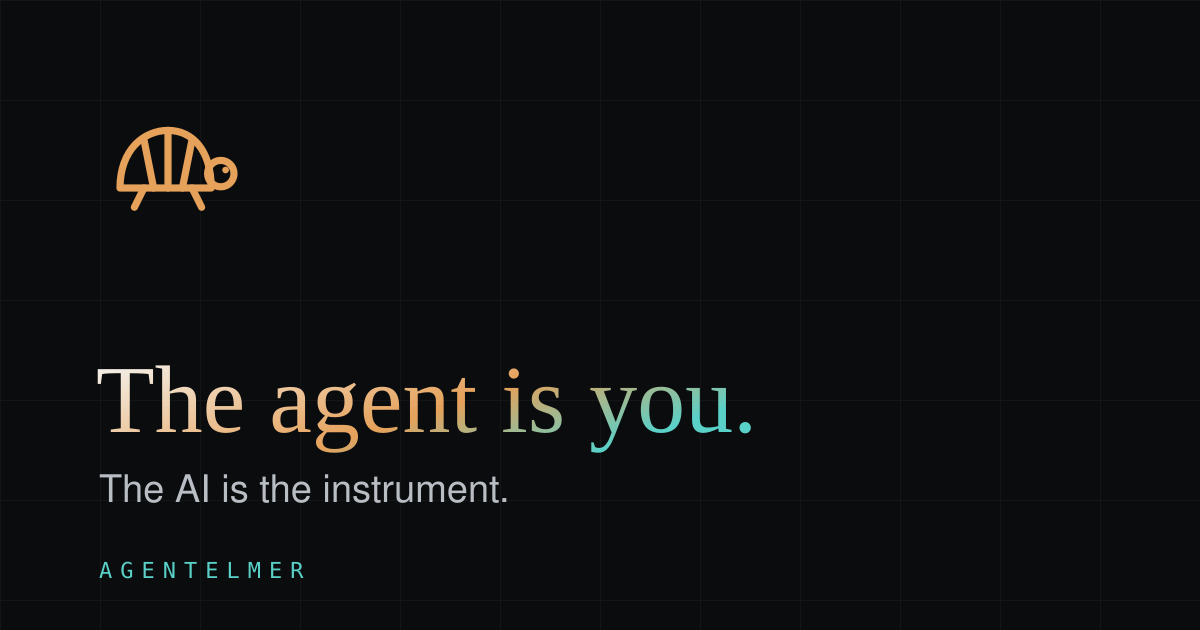
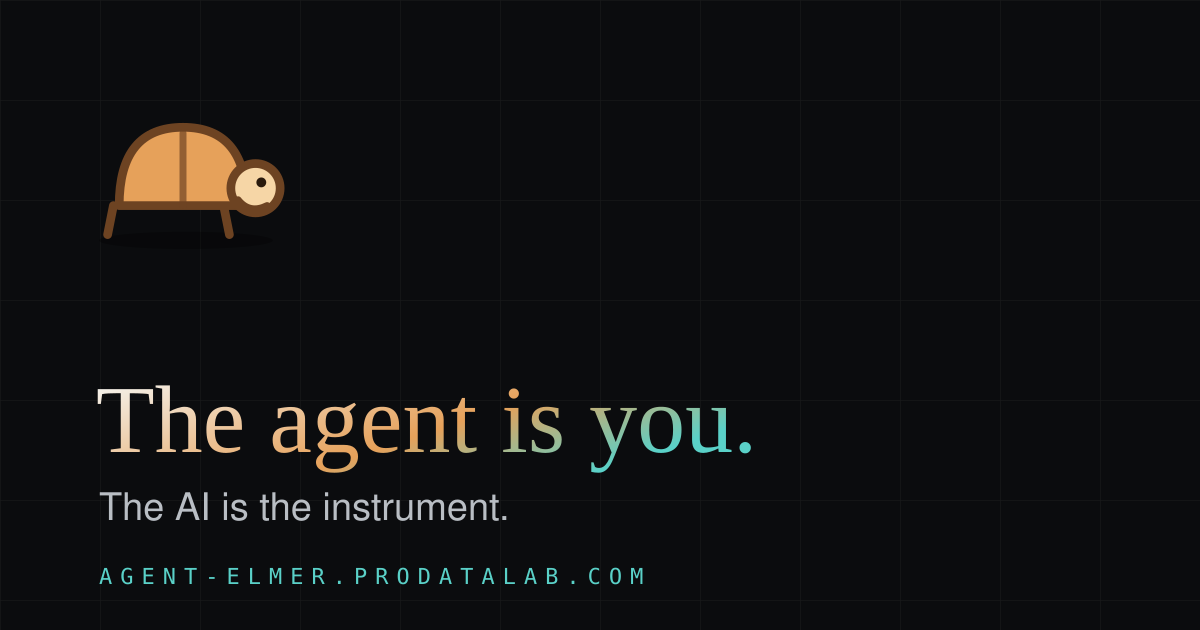
add About beat; original Elmer art; refreshed share card

diff --git a/site/style.css b/site/style.css
@@ -93,7 +93,8 @@ body::before {
   font-size: 0.8rem;
 }
 .mark__elmer { width: 1.55rem; height: 1.55rem; color: var(--warm); display: block; }
-.elmer-figure { max-width: 320px; }
+.elmer-figure { max-width: 380px; }
+.elmer-figure img { width: 100%; height: auto; display: block; }
 .topnav { display: flex; gap: 1.6rem; align-items: center; }
 .topnav a {
   color: var(--muted);

diff --git a/content/11-about.md b/content/11-about.md
@@ -1,0 +1,25 @@
+id: about
+kind: prose
+label: About
+title: A builder who taught himself the machine.
+
+Peter Alexander built things with his hands first — an apprentice carpenter, a
+foreman framing a house a week, then a **Florida State Certified General
+Contractor** running residential, commercial, and subdivision work through the
+1990s.
+
+In **2003** he set out to teach himself computer science, and went straight at
+the hard end: large-scale, fractional **time-series data processing** and the
+platforms behind **high-frequency trading**. A decade at **ProDataLab** convinced
+him software was built wrong — needless complexity, fragility, no reuse.
+*"Everything is a component,"* he wrote. *"Everything!"*
+
+In **October 2014**, hearing about smart contracts, he opened the Bitcoin paper
+and **stopped two pages in**: the architecture was clever, and *data-centric*,
+and he wanted **agent-centric**. He has been building the alternative ever
+since — deterministic, content-addressed, and now provable.
+
+- **Creative Development Systems** — founder, Nov 2013 – present · Denver, CO
+- **ProDataLab** — R&D, 2003–2013
+- **Florida General Contractor** — licence CGC-060560, since 1992
+- [@makeroftools](https://x.com/makeroftools)

diff --git a/content/02-elmer.md b/content/02-elmer.md
@@ -7,22 +7,7 @@ A person is an agent. So is a market, a rover, a cell — and so is a turtle. In
 
 ```html
 <figure class="diagram elmer-figure">
-<svg viewBox="0 0 300 220" role="img" aria-label="Elmer, the agent turtle">
-  <g fill="none" stroke="#e6a15a" stroke-width="2.2" stroke-linecap="round" stroke-linejoin="round">
-    <path d="M80 150 C80 100 110 74 150 74 C190 74 220 100 220 150 Z"/>
-    <path d="M150 74 L150 150"/>
-    <path d="M112 82 L128 150"/>
-    <path d="M188 82 L172 150"/>
-    <path d="M85 116 L215 116"/>
-    <path d="M220 118 C238 112 248 120 250 132 C250 144 240 150 224 148"/>
-    <circle cx="238" cy="126" r="2.2" fill="#e6a15a" stroke="none"/>
-    <path d="M96 150 L86 176"/>
-    <path d="M126 150 L120 178"/>
-    <path d="M174 150 L180 178"/>
-    <path d="M204 150 L214 176"/>
-    <path d="M80 140 L62 148"/>
-  </g>
-</svg>
+<img src="elmer-hero.svg" alt="Elmer, the agent turtle" width="420" height="300">
 <figcaption class="muted">Elmer — an agent: perceives its environment and acts.</figcaption>
 </figure>
 ```
